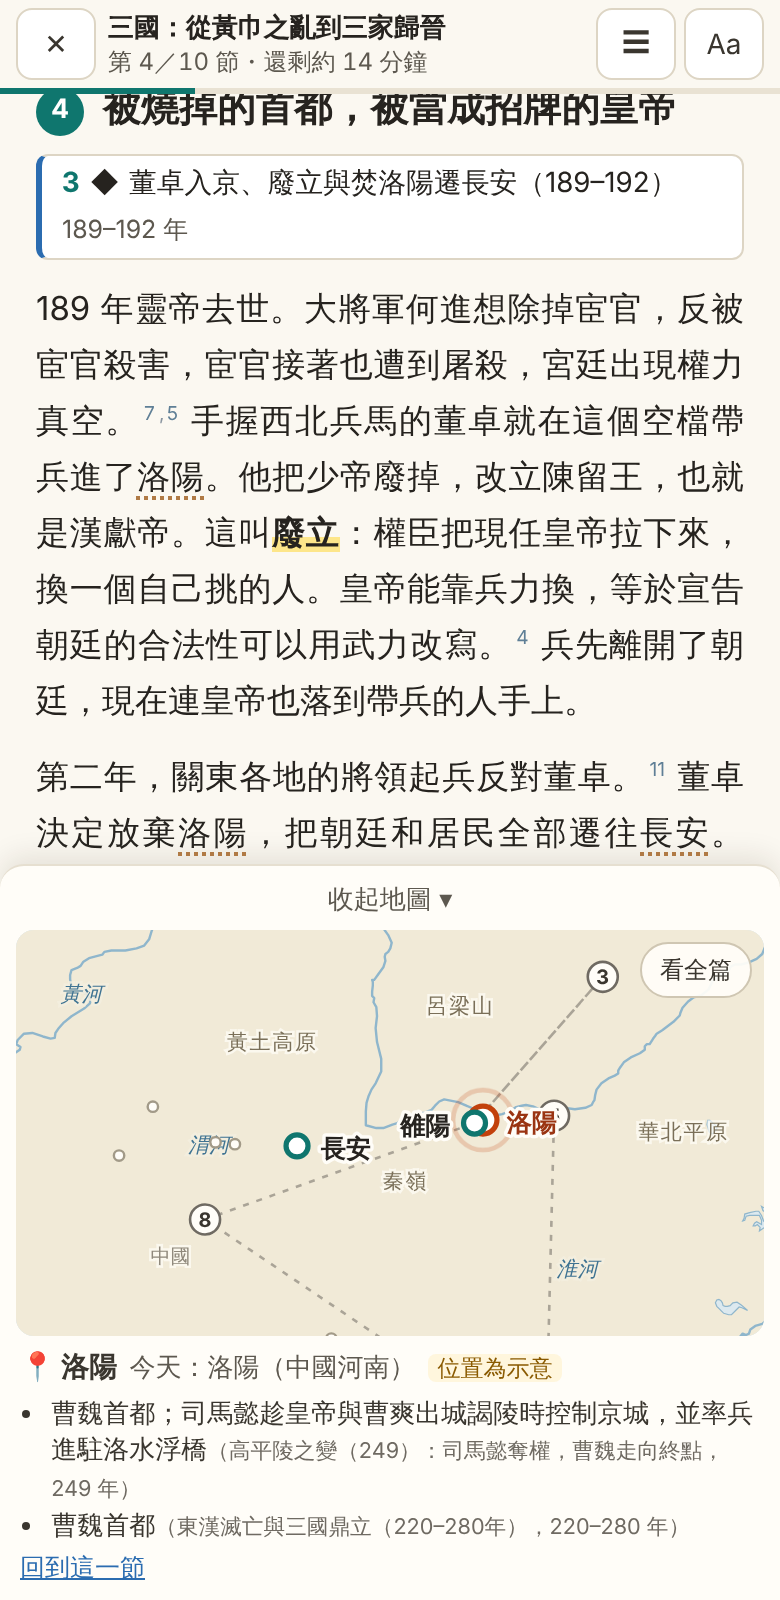
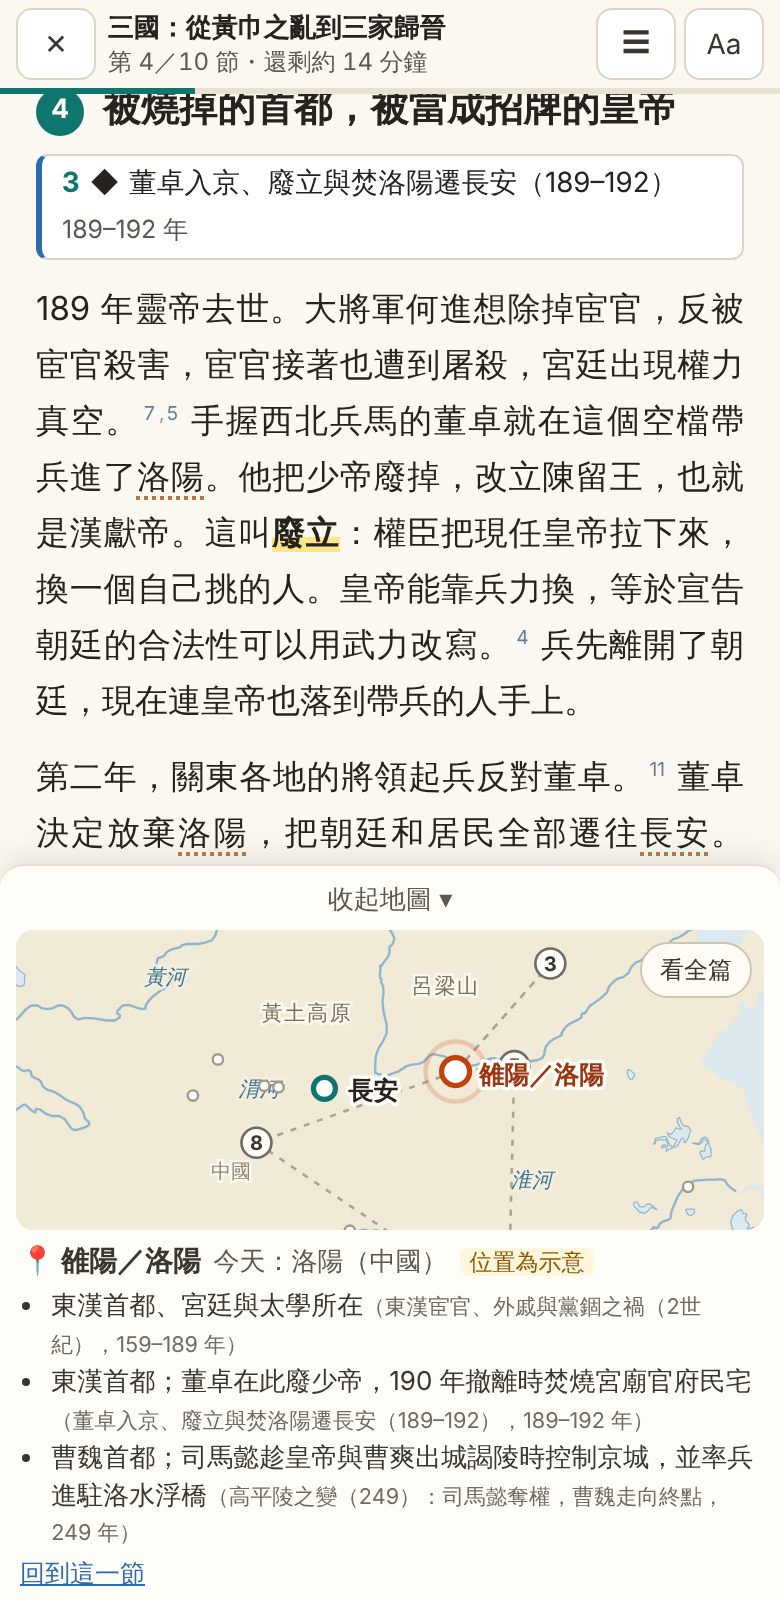
故事地圖：同一座城不同時代的名字（雒陽／洛陽等 10 組）合成一個點
- data/labels/same-place.yaml：groups＝同一座城（合併、名字並列）；different＝同城不同地方（分開標）
- story-map.cjs 列出很近、今天同一座城、但還沒判斷的地點

Claude-Session: https://claude.ai/code/session_01JFJ5rc4L6ADBaQRGoxqdCd

diff --git a/scripts/lib/storyMap.ts b/scripts/lib/storyMap.ts
@@ -5,6 +5,7 @@
 //   2. public/data/stories/<id>.map.json（陸地輪廓、海洋與地區名、路線）：地圖要顯示時才下載。
 import { createRequire } from 'node:module';
 import fs from 'node:fs';
+import YAML from 'yaml';
 import path from 'node:path';
 import { ROOT, type RawCard } from './cards.ts';
 import type { RawStory } from './stories.ts';
@@ -51,12 +52,18 @@ function matchNames(n: string): string[] {
   return [...out].sort((a, b) => b.length - a.length);
 }
 
+let same: { groups: string[][]; different: string[][] } | null = null;
+/** 同一座城不同時代的名字（data/labels/same-place.yaml，人工判斷過） */
+export const samePlaces = () => (same ??= (() => { const y = YAML.parse(fs.readFileSync(path.join(ROOT, 'data/labels/same-place.yaml'), 'utf8')) ?? {}; return { groups: y.groups ?? [], different: y.different ?? [] }; })());
+const sameCity = (a: string, b: string) => samePlaces().groups.some((g) => g.includes(a) && g.includes(b));
+
 /** 這篇故事各節的地點；故事 json 用 */
 export function storyPlaces(s: RawStory, cards: RawCard[]): { places: StoryPlace[]; secPt: number[] } {
   const byId = new Map(cards.filter((c) => c.fm?.id).map((c) => [c.fm.id as string, c.fm]));
   const places: StoryPlace[] = [];
   /** 每一節的代表點（這節第一站的第一個地點）；畫「故事順序」的虛線用，沒有站的節是 -1 */
   const secPt: number[] = s.sections.map(() => -1);
+  const names = new Map<StoryPlace, string[]>();
   s.sections.forEach((sec, si) => {
     for (const cid of sec.cards) {
       const fm = byId.get(cid);
@@ -64,8 +71,14 @@ export function storyPlaces(s: RawStory, cards: RawCard[]): { places: StoryPlace
         if (typeof l.lat !== 'number' || typeof l.lng !== 'number' || l.precision === 'unknown') continue;
         const name = String(l.name_ancient ?? '').trim();
         // 同名、相距 30 公里內就當同一個地點（雅典、長安在很多張卡都出現）
-        let p = places.find((x) => (x.n === name || strip(x.n) === strip(name)) && Math.abs(x.lat - l.lat) < 0.3 && Math.abs(x.lng - l.lng) < 0.3);
-        if (!p) { p = { n: name, m: String(l.name_modern ?? ''), lat: r3(l.lat), lng: r3(l.lng), ap: l.precision !== 'exact', roles: [], secs: [], k: matchNames(name) }; places.push(p); }
+        // 同一座城不同時代的名字（雒陽／洛陽）也合成一個點，名字依出現先後並列
+        let p = places.find((x) => names.get(x)!.some((n) => n === name || strip(n) === strip(name) || sameCity(n, name)) && Math.abs(x.lat - l.lat) < 0.3 && Math.abs(x.lng - l.lng) < 0.3);
+        if (!p) { p = { n: name, m: String(l.name_modern ?? ''), lat: r3(l.lat), lng: r3(l.lng), ap: l.precision !== 'exact', roles: [], secs: [], k: matchNames(name) }; places.push(p); names.set(p, [name]); }
+        else if (!names.get(p)!.some((n) => n === name || strip(n) === strip(name))) {
+          names.get(p)!.push(name);
+          p.n = names.get(p)!.join('／');
+          p.k = [...new Set([...p.k, ...matchNames(name)])].sort((a, b) => b.length - a.length);
+        }
         if (l.role && !p.roles.some((r) => r.card === cid && r.role === l.role)) p.roles.push({ card: cid, role: String(l.role) });
         if (!p.secs.includes(si)) p.secs.push(si);
         if (secPt[si] < 0) secPt[si] = places.indexOf(p);

diff --git a/docs/stories.md b/docs/stories.md
@@ -112,3 +112,4 @@ npm run validate                                  # 全站檢查（含故事）
 - 內文地名：每段第一次出現的地名（各站卡片的 `name_ancient`，含括號裡的別名）會有點狀底線，點了地圖移過去並說明今天在哪裡。國名、洲名（中國、美國、希臘…）不標，因為地圖上只能指到一個示意點。
 - 程式：`scripts/lib/storyMap.ts`（地點清單＋裁切陸地／河流／湖泊／地名）→ 故事 json 多 `places`、`secPt`、`hasMap`；`public/data/stories/<id>.map.json` 另存。畫面 `src/components/StoryMap.tsx`＋`story-map.css`（React.lazy，文字先出來，空閒時才下載地圖；手機按了才下載）。河流湖泊 `npx tsx scripts/fetch-rivers.ts` 產生 `data/ne/rivers-lakes-50m.json`。
 - 測試：`node scripts/qa/story-map.cjs <網址> [截圖夾]`。
+- **同一座城不同時代的名字**（雒陽／洛陽、建業／建康、昇龍／河內…）：寫在 `data/labels/same-place.yaml` 的 `groups`，地圖合成一個點、名字並列，內文哪個寫法都點得到。同一座城裡真的不同的地方（雅典衛城 vs 普尼克斯山）放 `different`，地圖分開標。不能全自動合併，因為「很近」分不出這兩種。新增卡片後跑 `story-map.cjs`，會列出還沒判斷的。
